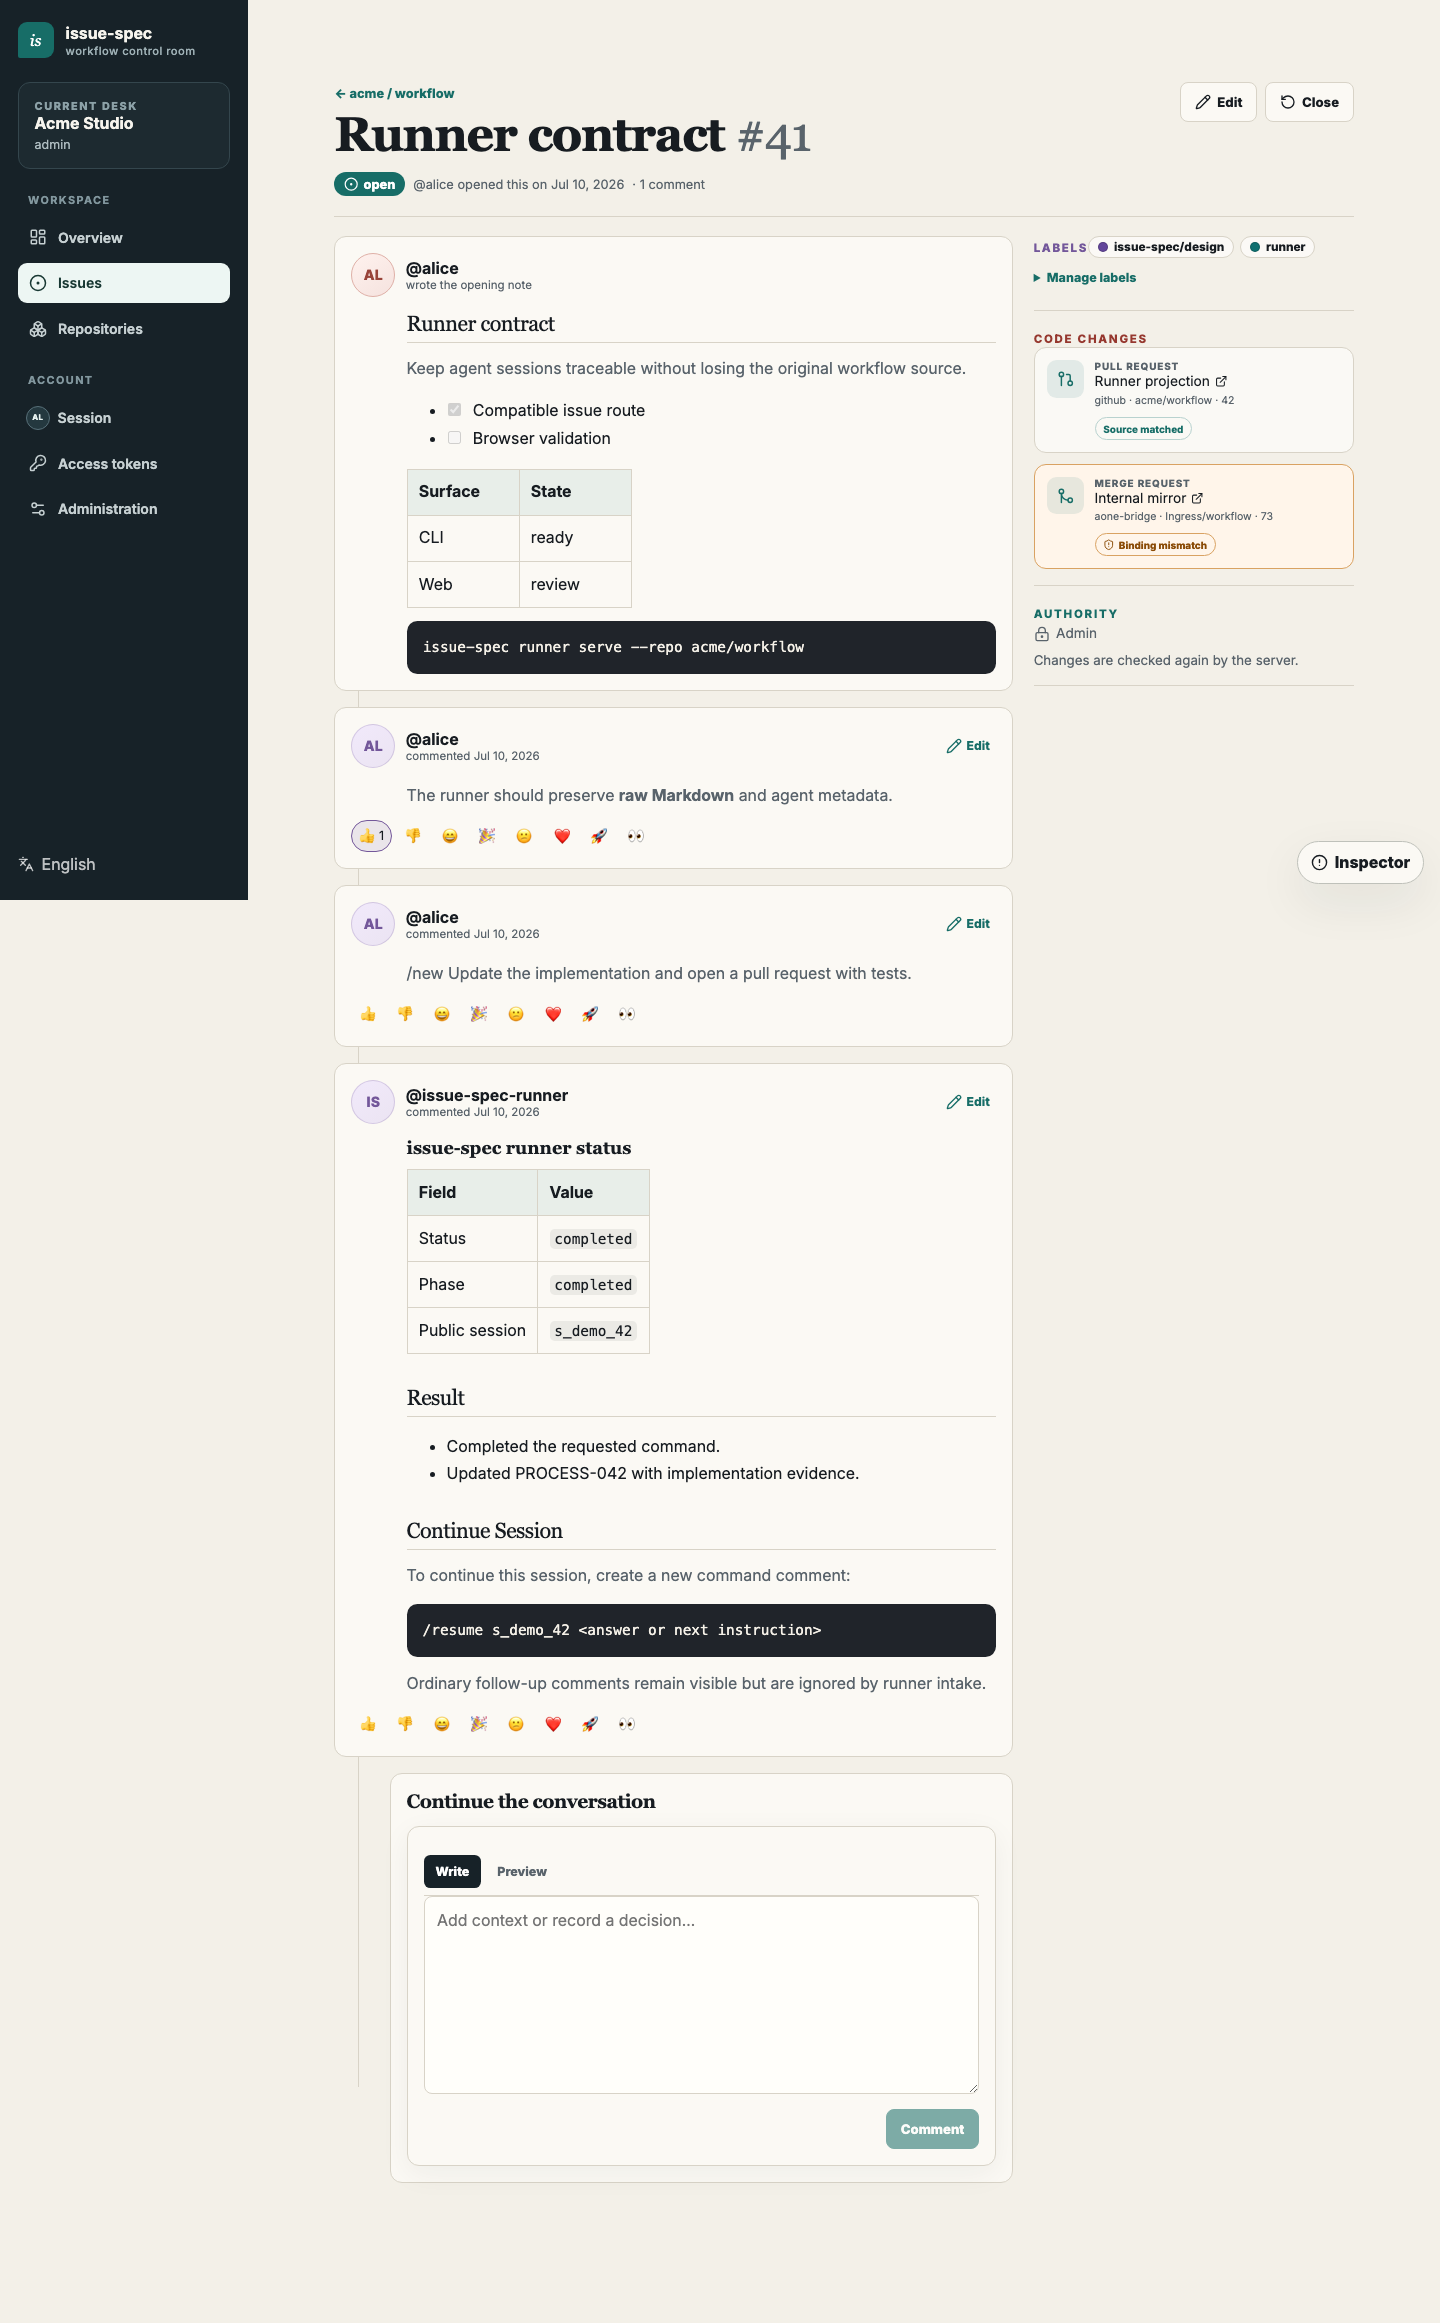
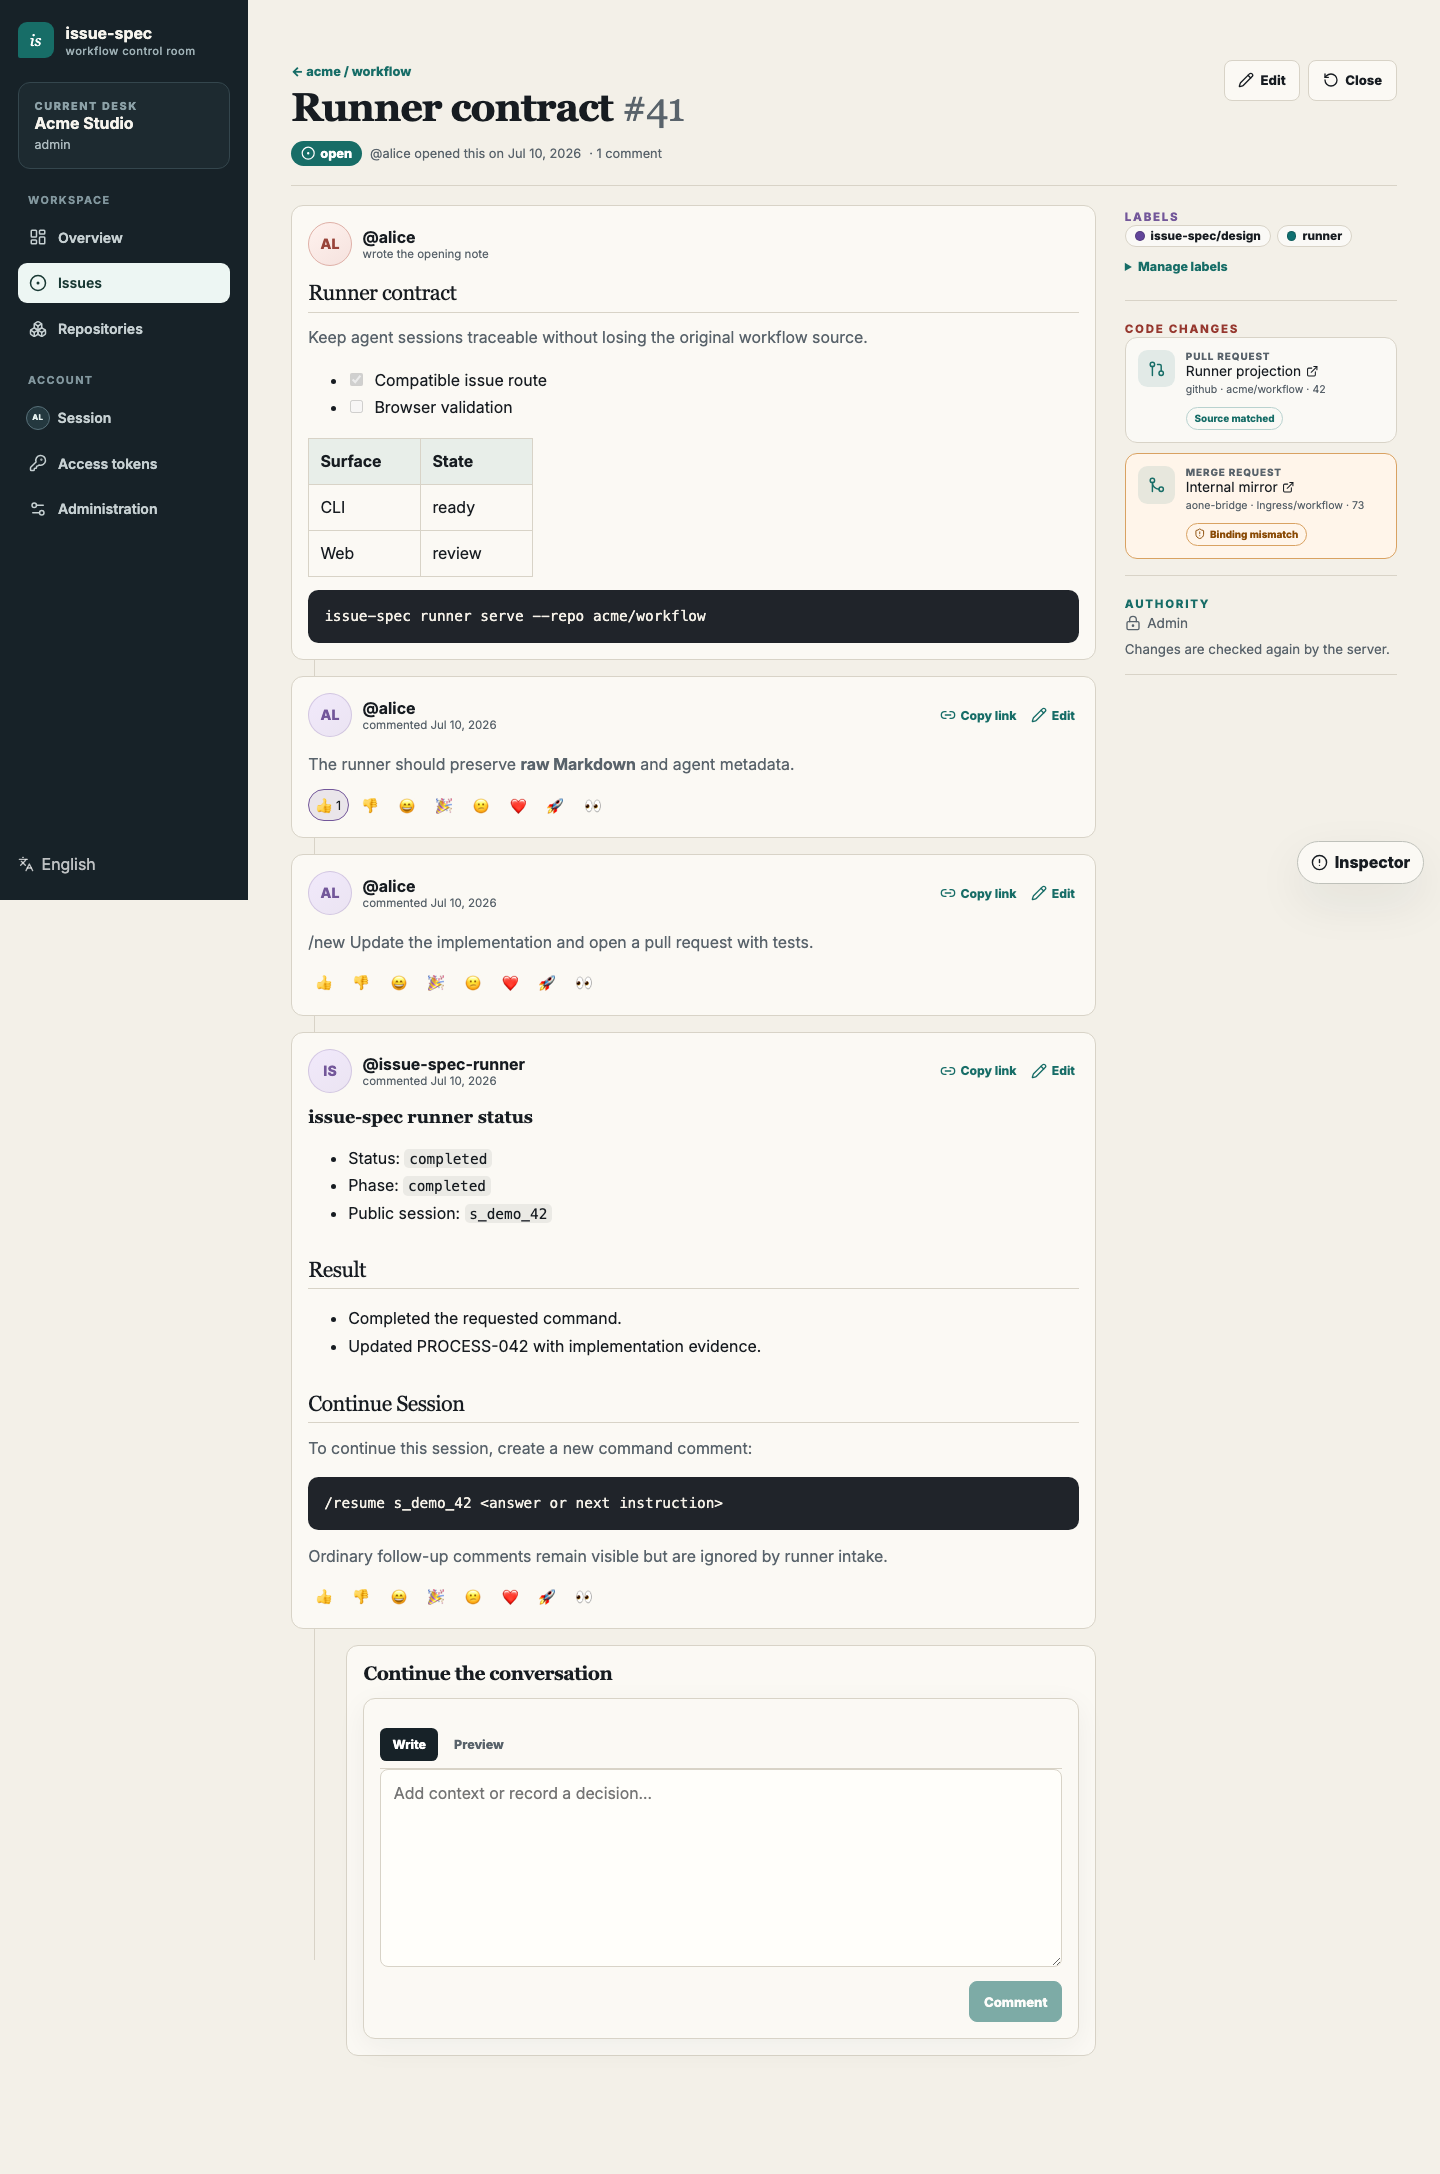
fix(runner): use portable status markdown

diff --git a/web/src/features/issues/issues.visual.e2e.ts b/web/src/features/issues/issues.visual.e2e.ts
@@ -18,11 +18,9 @@ const runnerCommand = documentationText(
 const runnerStatus = `<!-- issue-spec-runner:status {"schema_version":1,"status_writeback_key":"status:fixture"} -->
 ### issue-spec runner status
 
-| Field | Value |
-| --- | --- |
-| Status | \`completed\` |
-| Phase | \`completed\` |
-| Public session | \`s_demo_42\` |
+- Status: \`completed\`
+- Phase: \`completed\`
+- Public session: \`s_demo_42\`
 
 ## Result
 

diff --git a/internal/templates/status_writeback.go b/internal/templates/status_writeback.go
@@ -72,14 +72,13 @@ func RenderRunnerStatusComment(comment RunnerStatusComment) (string, error) {
 	var b strings.Builder
 	b.WriteString(marker)
 	b.WriteString("\n\n### issue-spec runner status\n\n")
-	b.WriteString("| Field | Value |\n| --- | --- |\n")
-	tableRow(&b, "Status", codeOrNA(comment.Status))
-	tableRow(&b, "Phase", codeOrNA(comment.Phase))
+	statusListItem(&b, "Status", codeOrNA(comment.Status))
+	statusListItem(&b, "Phase", codeOrNA(comment.Phase))
 	if strings.TrimSpace(comment.PublicSessionID) != "" {
-		tableRow(&b, "Public session", codeOrNA(comment.PublicSessionID))
+		statusListItem(&b, "Public session", codeOrNA(comment.PublicSessionID))
 	}
 	if strings.TrimSpace(comment.AgentKind) != "" {
-		tableRow(&b, "Agent", codeOrNA(comment.AgentKind))
+		statusListItem(&b, "Agent", codeOrNA(comment.AgentKind))
 	}
 
 	writeResultSummary(&b, comment)
@@ -340,8 +339,8 @@ func writeResumeGuidance(b *strings.Builder, comment RunnerStatusComment) {
 	b.WriteString("Ordinary follow-up comments are recorded on GitHub, but the runner only sends `/resume` command comments to the coordinator.\n")
 }
 
-func tableRow(b *strings.Builder, key, value string) {
-	fmt.Fprintf(b, "| %s | %s |\n", escapeTable(key), escapeTable(value))
+func statusListItem(b *strings.Builder, key, value string) {
+	fmt.Fprintf(b, "- %s: %s\n", key, value)
 }
 
 func codeOrNA(value string) string {
@@ -380,10 +379,6 @@ func truncateUTF8(value string, maxBytes int) string {
 		value = value[:len(value)-size]
 	}
 	return value + "..."
-}
-
-func escapeTable(value string) string {
-	return strings.ReplaceAll(value, "|", "\\|")
 }
 
 func joinNonEmpty(sep string, values ...string) string {

diff --git a/internal/templates/status_writeback_test.go b/internal/templates/status_writeback_test.go
@@ -53,10 +53,10 @@ func TestRenderRunnerStatusCommentKeepsPublicBodyConcise(t *testing.T) {
 	}
 	for _, want := range []string{
 		"issue-spec-runner:status",
-		"| Status | `running` |",
-		"| Phase | `dispatch` |",
-		"| Public session | `s_123` |",
-		"| Agent | `codex` |",
+		"- Status: `running`",
+		"- Phase: `dispatch`",
+		"- Public session: `s_123`",
+		"- Agent: `codex`",
 		"## Result",
 		"Completed the requested command.",
 		"updated typed_comment PROCESS-001: https://github.com/o/r/issues/1#issuecomment-1",
@@ -99,6 +99,9 @@ func TestRenderRunnerStatusCommentKeepsPublicBodyConcise(t *testing.T) {
 			t.Fatalf("body leaked %q:\n%s", forbidden, body)
 		}
 	}
+	if strings.Contains(body, "\n|") {
+		t.Fatalf("status comment should use portable Markdown instead of a GFM table:\n%s", body)
+	}
 	if strings.Contains(body, "runner wrote") || strings.Contains(body, "action envelope") {
 		t.Fatalf("body claims artifact ownership or action envelope:\n%s", body)
 	}
@@ -136,7 +139,7 @@ func TestRenderRunnerStatusCommentShowsResultWithoutCoordinatorSummary(t *testin
 		t.Fatal(err)
 	}
 	for _, want := range []string{
-		"| Status | `completed` |",
+		"- Status: `completed`",
 		"## Result",
 		"Completed the requested command.",
 	} {
@@ -232,8 +235,8 @@ func TestRunnerStatusCommentShowsConciseRejectedReason(t *testing.T) {
 		t.Fatal(err)
 	}
 	for _, want := range []string{
-		"| Status | `rejected` |",
-		"| Phase | `command-unauthorized` |",
+		"- Status: `rejected`",
+		"- Phase: `command-unauthorized`",
 		"## Reason",
 		"command unauthorized; auth=insufficient_permission",
 	} {

diff --git a/internal/commentrunner/writeback/service_test.go b/internal/commentrunner/writeback/service_test.go
@@ -30,9 +30,9 @@ func TestWritebackCreatesThenUpdatesTrackedComment(t *testing.T) {
 	if !created.Created || created.Comment.ID != 501 || ops.creates != 1 {
 		t.Fatalf("create result=%+v creates=%d", created, ops.creates)
 	}
-	if !strings.Contains(created.Body, "| Status | `queued` |") ||
-		!strings.Contains(created.Body, "| Phase | `queued` |") ||
-		!strings.Contains(created.Body, "| Public session | `s_123` |") {
+	if !strings.Contains(created.Body, "- Status: `queued`") ||
+		!strings.Contains(created.Body, "- Phase: `queued`") ||
+		!strings.Contains(created.Body, "- Public session: `s_123`") {
 		t.Fatalf("created body missing concise status fields:\n%s", created.Body)
 	}
 	if strings.Contains(created.Body, "| Runner job |") || strings.Contains(created.Body, "| Trigger comment |") {

diff --git a/internal/commentrunner/intake/intake_test.go b/internal/commentrunner/intake/intake_test.go
@@ -806,7 +806,7 @@ func TestRunOnceRejectedWritebackDoesNotEchoUnauthorizedPrompt(t *testing.T) {
 		t.Fatalf("expected one rejected writeback, got %+v", backend.createdRunnerComments)
 	}
 	body := backend.createdRunnerComments[0].Body
-	if !strings.Contains(body, "| Status | `rejected` |") || !strings.Contains(body, "command unauthorized") {
+	if !strings.Contains(body, "- Status: `rejected`") || !strings.Contains(body, "command unauthorized") {
 		t.Fatalf("rejected writeback missing status/diagnostic:\n%s", body)
 	}
 	if strings.Contains(body, secretPrompt) || strings.Contains(body, "secret-token-secret-token-secret-token") {
